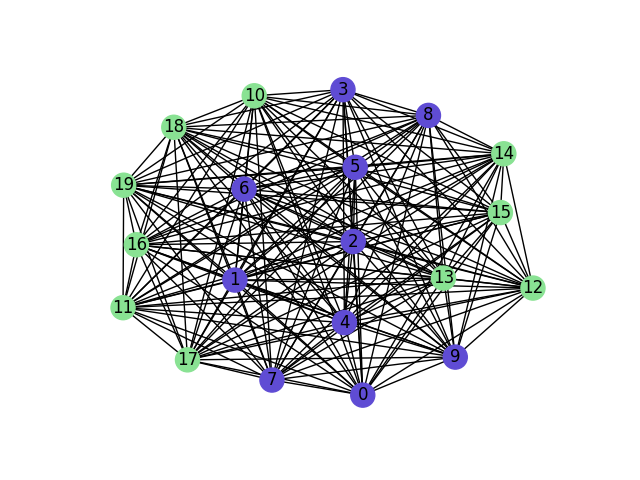
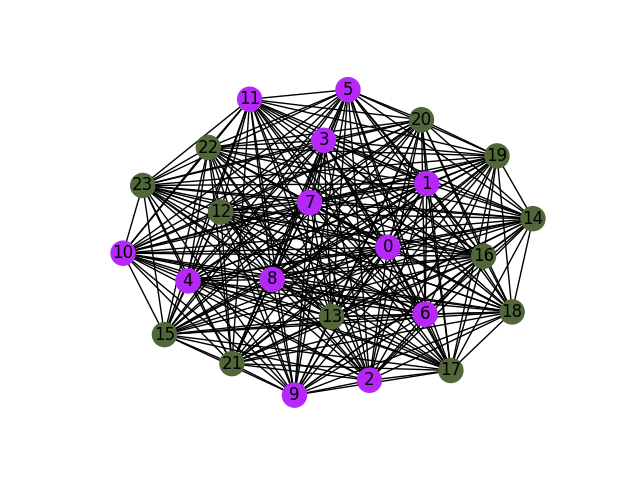
example 24 nodes

Changed region(s): [[0.1562, 0.1562, 0.875, 0.875]]

diff --git a/graph_part.py b/graph_part.py
@@ -17,8 +17,8 @@ def draw_graph(partitioning, alg_name, graph_type, num):
     nx.draw(G, ax=fig.add_subplot(), node_color=color_map, with_labels=True)
     fig.savefig("graph-" + alg_name + "-" +  graph_type + "-" + str(num) + ".png")
 
-G = nx.complete_graph(20)
-for num in [2, 4, 5, 10]:
+G = nx.complete_graph(24)
+for num in [2, 4, 6, 8]:
     partitioning = nxmetis.partition(G, num)[1]
     print(num, partitioning)
     draw_graph(partitioning, "metis", "complete", num)
